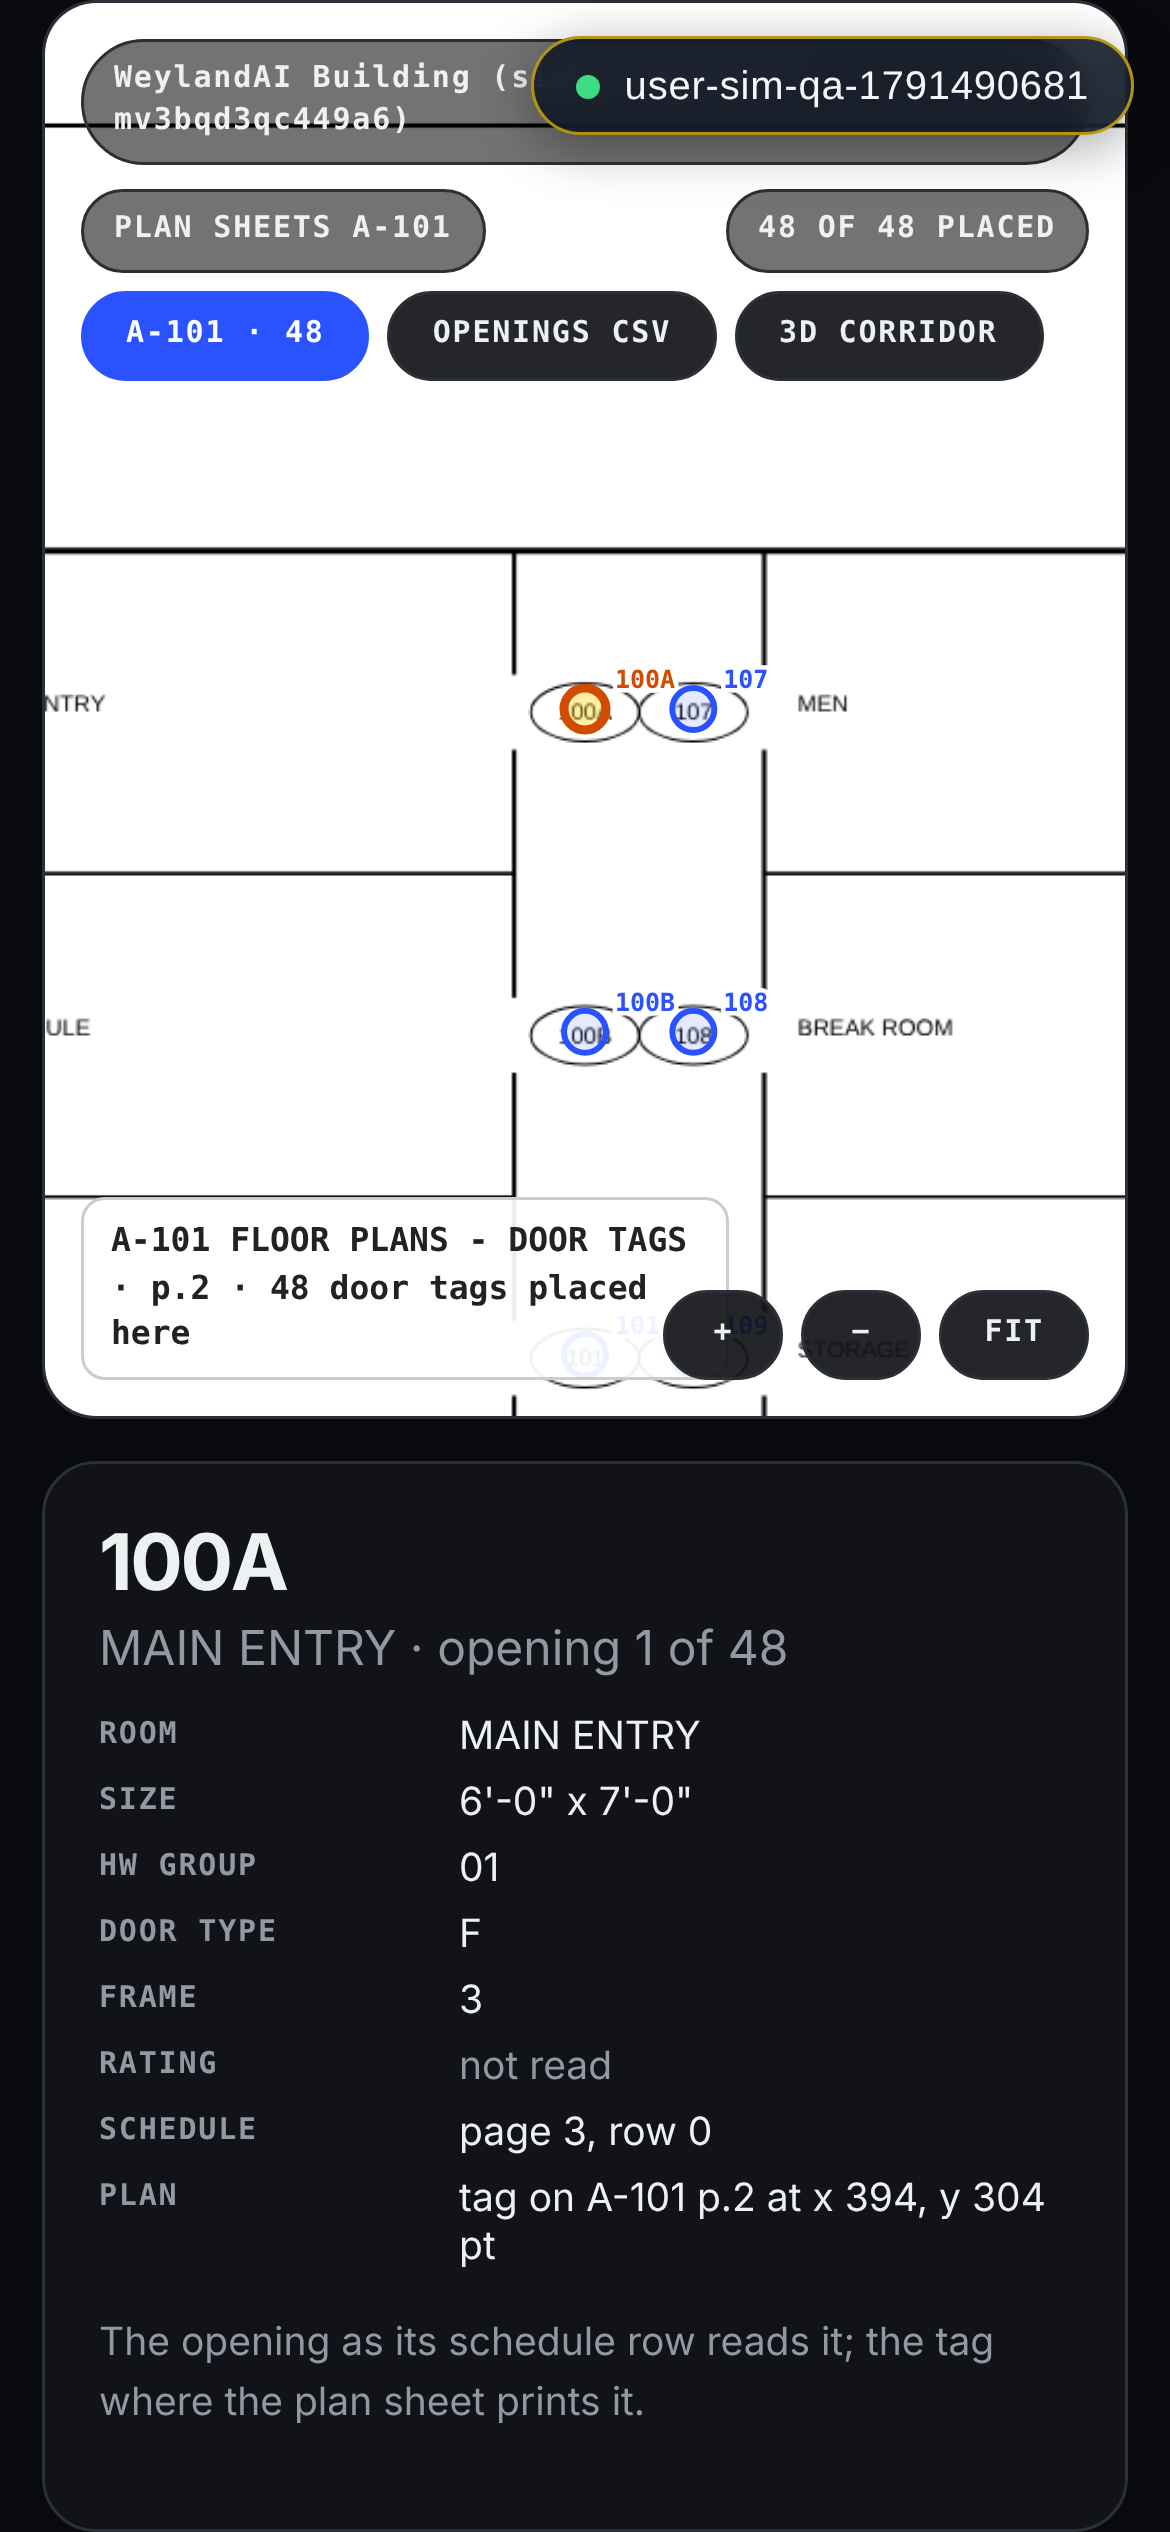
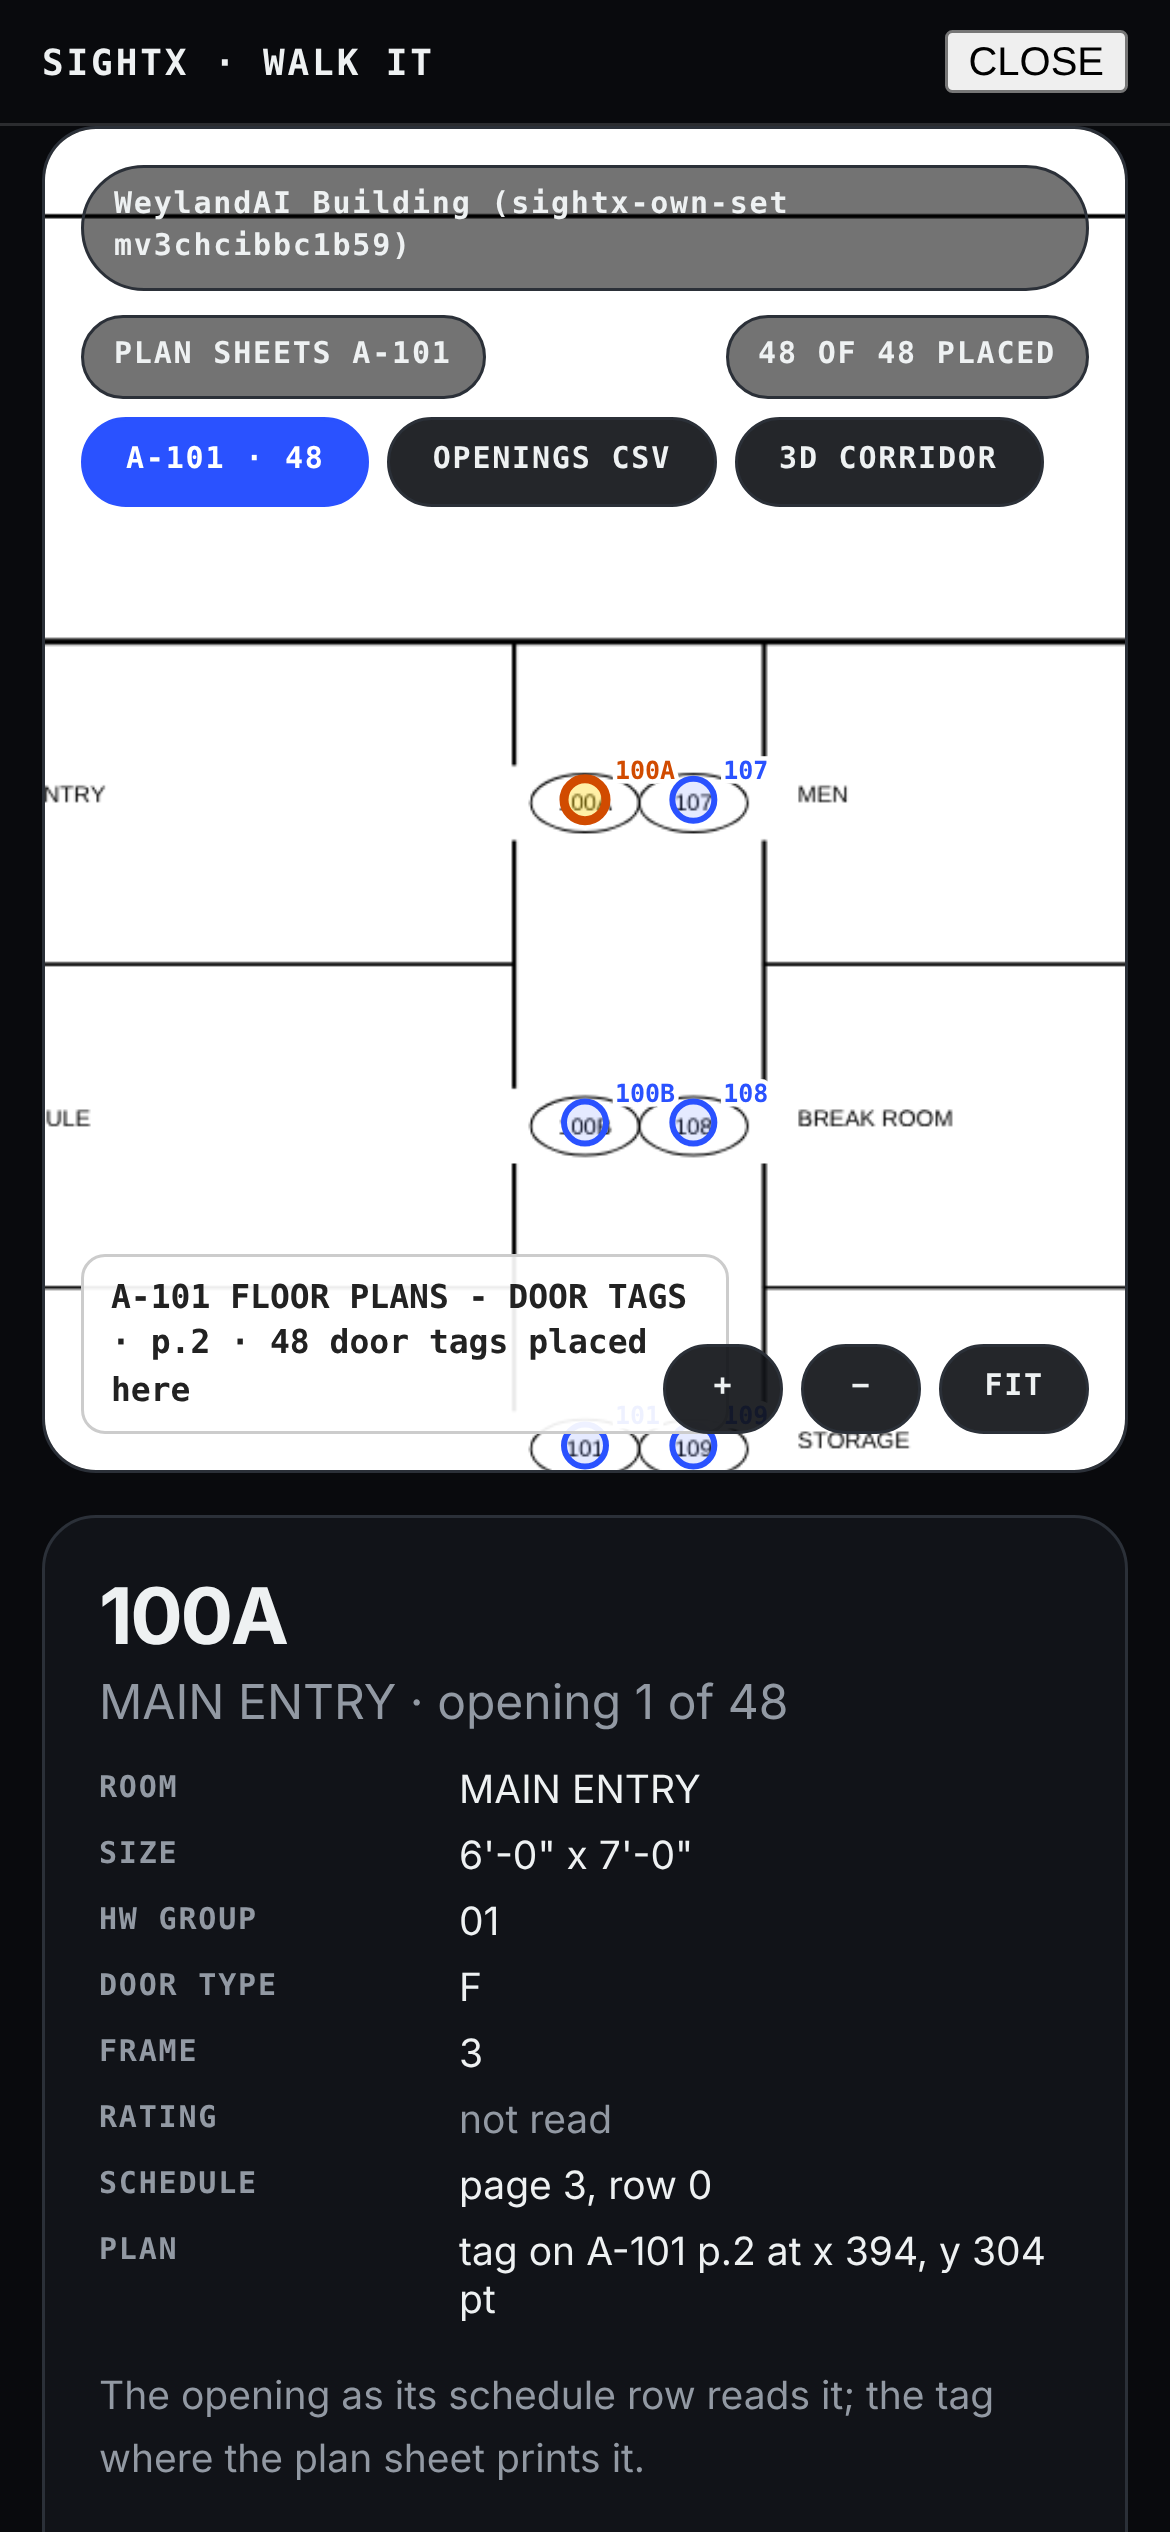
g074 review: WALK IT opens SightX without replacing any document
WALK IT IN SIGHTX was a plain link, so clicking it replaced SubX's
document. It is now a button. Inside the weylandai.com shell's overlay
frame, it asks the parent WeylandShell to open /sightx/?walk=<session>
in its overlay. As the top document, it opens SightX in a same-origin
frame over SubX: a CLOSE control and Escape, focus moved into the frame
and back to WALK IT on close, and the address unchanged.

sightx-own-set sets a mark on the SubX document at load. It checks the
mark survives WALK IT, using the sheet and CLOSE, on desktop, on a phone
(taps) and inside the homepage shell.

Claude-Session: https://claude.ai/code/session_01SWkoV285M3KcrZj5kvhPRc

diff --git a/weyland-subx-worker/src/pages/subx-app.html b/weyland-subx-worker/src/pages/subx-app.html
@@ -2267,11 +2267,56 @@ global.SovereignPdfRender = {
         box.appendChild(b);
         // g074: WALK IT opens this upload's plan sheets in SightX (/sightx/?walk=<session>): the sheets drawn in
         // the browser from this PDF, each door tag where the plan prints it, a card per opening, the openings CSV.
-        var w = document.createElement("a");
-        w.className = "button"; w.id = "walk-it";
-        w.href = "/sightx/?walk=" + encodeURIComponent(state.current);
+        // No page hop (g074 review): SightX opens as a view over SubX, never by replacing this document.
+        var w = document.createElement("button");
+        w.type = "button"; w.id = "walk-it";
         w.textContent = "WALK IT IN SIGHTX";
+        w.setAttribute("data-walk", state.current);
+        w.addEventListener("click", function () { walkIt(w.getAttribute("data-walk"), w); });
         box.appendChild(w);
+      }
+      // Inside the weylandai.com shell's overlay frame: the parent shell opens SightX in its overlay (same
+      // origin). As the top document: SightX in a same-origin frame over SubX, with a close control, focus
+      // moved into it and back to WALK IT on close, Escape closing it. The address never changes.
+      function walkIt(id, opener) {
+        var path = "/sightx/?walk=" + encodeURIComponent(id);
+        var parentShell = null;
+        try { parentShell = window.parent !== window && window.parent.WeylandShell ? window.parent.WeylandShell : null; } catch (e) { parentShell = null; }
+        if (parentShell) return parentShell.open("app", { path: path });
+        var old = $("walk-overlay"); if (old) old.remove();
+        var back = opener || document.activeElement;
+        var box = document.createElement("div");
+        box.id = "walk-overlay"; box.setAttribute("role", "dialog"); box.setAttribute("aria-modal", "true"); box.setAttribute("aria-label", "SightX: walk this schedule's plan sheets");
+        box.style.cssText = "position:fixed;inset:0;z-index:2147483000;display:flex;flex-direction:column;background:#090a0d";
+        var bar = document.createElement("div");
+        bar.style.cssText = "display:flex;align-items:center;justify-content:space-between;gap:10px;padding:10px 14px;border-bottom:1px solid rgba(255,255,255,.14);color:#eef1f2;font:700 12px/1 ui-monospace,monospace;letter-spacing:.08em";
+        bar.innerHTML = "<span>SIGHTX · WALK IT</span>";
+        var close = document.createElement("button");
+        close.type = "button"; close.id = "walk-close"; close.textContent = "CLOSE"; close.setAttribute("aria-label", "Close SightX and return to SubX");
+        bar.appendChild(close);
+        var frame = document.createElement("iframe");
+        frame.id = "walk-frame"; frame.title = "SightX"; frame.src = path + "&embed=1";
+        frame.style.cssText = "flex:1;width:100%;border:0;background:#090a0d";
+        box.appendChild(bar); box.appendChild(frame);
+        document.body.appendChild(box);
+        var overflow = document.documentElement.style.overflow;
+        document.documentElement.style.overflow = "hidden";
+        function onKey(e) { if (e.key === "Escape") shut(); }
+        function shut() {
+          document.removeEventListener("keydown", onKey);
+          try { frame.contentWindow.document.removeEventListener("keydown", onKey); } catch (e) {}
+          box.remove();
+          document.documentElement.style.overflow = overflow;
+          var to = back && document.contains(back) ? back : $("walk-it");
+          if (to) { try { to.focus({ preventScroll: true }); } catch (e) {} }
+        }
+        close.addEventListener("click", shut);
+        document.addEventListener("keydown", onKey);
+        frame.addEventListener("load", function () {
+          try { frame.contentWindow.document.addEventListener("keydown", onKey); } catch (e) {}
+          try { frame.focus(); frame.contentWindow.focus(); } catch (e) {}
+        });
+        try { frame.focus(); } catch (e) {}
       }
       function renderPackageStatus() {
         var p = state.detail.package, out = $("package-result");

diff --git a/docs/cloud-status.md b/docs/cloud-status.md
@@ -81,6 +81,7 @@ Written by the cloud session, 2026-10-09 (UTC). Every number below comes from a 
 
 ## Cloud goals (Mobley list)
 
+- g074 review change (2026-10-11 04:56Z), PR 130: WALK IT IN SIGHTX no longer replaces the document. It is a button. Inside the shell's overlay frame it asks the parent WeylandShell to open /sightx/?walk=<session> in its overlay. As the top document it opens SightX in a same-origin frame over SubX, with CLOSE (and Escape), focus moved into the frame and back to WALK IT, and the address unchanged. sightx-own-set now sets a mark on the SubX document at load and checks it survives WALK IT, the sheet and CLOSE, on desktop, phone (taps) and inside the homepage shell. Overlay runs on production: 13/14 x3; the one failure is still the CSV pair column, which needs the SubX deploy. sightx-sheets 13/13. Evidence: tools/accuracy/g074/README.md.
 - g074 in review (2026-10-11 04:32Z), PR 130 reworked: no harvested sheet is public any more (weyland-sightx-worker/assets/sheets and their records removed, the branch rebuilt without them; harvested sets' /api/sightx/sheets answer 404). The public sheet view is the WeylandAI Building (4847b09e633103f7): 48 OF 48 PLACED on A-101, a card per opening, OPENINGS CSV, drawn in the browser from its own PDF by the self-hosted pdf.js. WALK IT IN SIGHTX on a SubX upload opens /sightx/?walk=<session> over the workspace: the uploaded PDF drawn by pdf.js, readPlan's tags (SubX /plan), a card per opening, placed-of-total, the openings CSV; nothing stored. Reader A now reads PAIR at the start of a REMARKS cell (Building pairs 100A, 111, 200, 300; pair is not a truth-compared field). Overlay runs on production (no wrangler or GPU here): sightx-sheets 13/13 x3; sightx-own-set 12/13 x3, the only failure the CSV's pair column, which needs the SubX deploy; sightx-real-buildings 85/85; sightx-corridor 9/14, the same five homepage-backdrop failures as production main under software WebGL. Gate: add sightx-own-set. Needs: deploy weyland-subx-worker and weyland-sightx-worker, then the Mac's three GPU passes. Evidence: tools/accuracy/g074/README.md.
 - g069 in review (12:35Z): harvest.mjs takes --round N --cap-bytes B --from-remaining --dry-run; --round3 is --round 3 and refuses as before. The dry run over round 3's state lists 426 Missouri OA plans/specs/addenda files across 92 project ids, sends no request and writes nothing (tools/corpus/harvest/g069/dry-run-round4.txt). C2403-01 is in it with 5 files. R2516, R2416, X2410 and T2423 are not: they were round 2's cap leftovers, and round 3 downloaded them (manifest lines 1641, 1645, 1650, 1655), so they are already among the 598 truth sets. Tests: node --test tools/corpus/harvest/round-plan.test.mjs, 7/7, over a fake queue and a local server (robots Disallow, round cap on Content-Length, manifest rows, round.json state, round3.json preserved, restart refused). Needs: the Mac runs node tools/corpus/harvest/harvest.mjs --round 4 --cap-bytes 1000000000 --from-remaining, then triage and the truth run. Evidence: tools/corpus/harvest/g069/README.md.
 - g064 in review (08:18Z): reader B no longer over-counts X2404-01: the 4 extra rows were diffusers C3, I1, R1, R2 from p.97's air-device schedule (TAG as a mark, FACE SIZE as a door size); a header with two or more equipment words (CFM, AIRFLOW, THROW, DAMPER ...) is not a door table. 6e7e2d2b and 70ab5446: reader B 12 to 8 (100A to 107A on A601 p.81), agreed 8 of 8. Whole harvest (merged with main 372e178) vs committed truth: compare_runs exits 0, only these two sets change. Reader B tests 18/18. Evidence: tools/accuracy/g064/README.md.

diff --git a/tools/accuracy/g074/README.md b/tools/accuracy/g074/README.md
@@ -19,6 +19,11 @@ How the sheet is served:
 
 ## 2. Your own set: WALK IT IN SIGHTX
 
+**No page hop (review change, 2026-10-11 04:56Z).** WALK IT IN SIGHTX is a button, not a link, and it never replaces a document:
+- **Inside the weylandai.com shell's overlay frame:** SubX asks the parent `WeylandShell.open("app", {path})` to open `/sightx/?walk=<session>` in its overlay.
+- **As the top document:** SubX opens that path in its own same-origin frame over itself (`#walk-overlay`, `#walk-frame`). It has a CLOSE control. Escape also closes it. Focus moves into the frame, and returns to WALK IT on close. The address never changes.
+
+
 After a SubX upload, the schedule's actions include WALK IT IN SIGHTX. It links to /sightx/?walk=<session>. In the site shell, SightX opens over the workspace in the same document. It loads three things from the customer's own SubX session:
 - GET /doors: the door rows;
 - GET /plan: SubX runs readPlan from weyland-shared on the uploaded PDF for the door tags;
@@ -60,11 +65,11 @@ The local runs used the branch's /sightx, /subx-app and /api/sightx/* overlaid o
 | journey | pass 1 | pass 2 | pass 3 |
 |---|---|---|---|
 | sightx-sheets (the Building) | 13/13 | 13/13 | 13/13 |
-| sightx-own-set (upload, WALK IT, card, CSV, phone tap, delete) | 12/13 | 12/13 | 12/13 |
+| sightx-own-set (upload, WALK IT over SubX, card, CSV, CLOSE with the document kept, phone tap, inside the shell, delete) | 13/14 | 13/14 | 13/14 |
 | sightx-real-buildings (g028, unchanged) | 85/85 | | |
 | sightx-corridor | 9/14 | | |
 
-**sightx-own-set.** The one failure on every pass is "the CSV's pair column is the drawn schedule's": 100A, 111, 200 and 300 come back as "no" vs "yes". The uploads were read by production SubX, which does not have the reader fix above yet. Every other CSV field equals truth-doors.json on all 48 rows: mark, room, width, height, group, schedule page, and placed on A-101.
+**sightx-own-set.** It asserts the document is never replaced. A mark is set on the SubX document at load. It must survive the upload, WALK IT, using the sheet and CLOSE, with focus back on WALK IT and the address unchanged. It does the same on a phone with taps, and inside the homepage shell, where the homepage document stays. The one failure on every pass is "the CSV's pair column is the drawn schedule's": 100A, 111, 200 and 300 come back as "no" vs "yes". The uploads were read by production SubX, which does not have the reader fix above yet. Every other CSV field equals truth-doors.json on all 48 rows: mark, room, width, height, group, schedule page, and placed on A-101.
 
 **sightx-corridor.** Its five failures are the homepage 3D backdrop refusing software WebGL. Production main fails the same five here: sightx-corridor-production-main.txt, 9/15 with the D1 purge as the 15th check.
 
